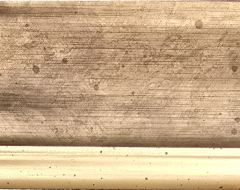
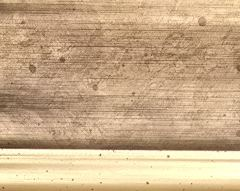
Updates

diff --git a/public/assets/front/js/frame-preview.js b/public/assets/front/js/frame-preview.js
@@ -69,9 +69,20 @@
 		var thickness = Math.round(Math.min(width, height) * THICKNESS_RATIO);
 		thickness = Math.max(MIN_THICKNESS, Math.min(MAX_THICKNESS, thickness));
 
-		root.style.setProperty('--pf-t', thickness + 'px');
+		// Setting these changes the margin, which resizes the element and would
+		// re-enter through the ResizeObserver -- only write on an actual change.
+		if (root._pfT !== thickness) {
+			root._pfT = thickness;
+			root.style.setProperty("--pf-t", thickness + "px");
+		}
+
 		// Side rails are rotated, so their length is the frame's outer height.
-		root.style.setProperty('--pf-h', (height + 2 * thickness) + 'px');
+		var outerHeight = height + 2 * thickness;
+
+		if (root._pfH !== outerHeight) {
+			root._pfH = outerHeight;
+			root.style.setProperty("--pf-h", outerHeight + "px");
+		}
 	}
 
 	function apply(root, swatchUrl) {

diff --git a/public/assets/front/css/frame-preview.css b/public/assets/front/css/frame-preview.css
@@ -109,3 +109,13 @@
 	transform-origin: 100% 0;
 	transform: rotate(-90deg) translateY(-100%);
 }
+
+/*
+ * The side rails are rotated, which maps the clip trapezoid's wide edge to the
+ * rail's inner side. Mirror it so the wide edge faces outward like the top and
+ * bottom, and the mitres line up corner to corner.
+ */
+.pframe-left,
+.pframe-right {
+	clip-path: polygon(var(--pf-t) 0, calc(100% - var(--pf-t)) 0, 100% 100%, 0 100%);
+}

diff --git a/app/Support/Frames.php b/app/Support/Frames.php
@@ -19,6 +19,7 @@ class Frames
 
     private static $files;
     private static $labels;
+    private static $codes;
 
     /**
      * Settings key holding the display name for a frame file.
@@ -34,6 +35,17 @@ class Frames
     public static function slug($file)
     {
         return preg_replace('/[^A-Za-z0-9]+/', '_', pathinfo($file, PATHINFO_FILENAME));
+    }
+
+    /**
+     * Supplier stock code for a frame file: "C22SVG (2).svg" and the older
+     * "C22 background removed.png" both yield "C22".
+     */
+    public static function code($file)
+    {
+        $stem = pathinfo((string) $file, PATHINFO_FILENAME);
+
+        return preg_match('/^([A-Za-z]+\d+)/', $stem, $matches) ? strtoupper($matches[1]) : null;
     }
 
     /**
@@ -63,6 +75,39 @@ class Frames
     }
 
     /**
+     * Map a stored map_frame value onto a frame file that still exists.
+     *
+     * Frame art has been re-supplied in different formats over time, so rows
+     * saved against an older filename are matched back by stock code.
+     */
+    public static function resolve($stored)
+    {
+        if (empty($stored) || $stored === 'none') {
+            return null;
+        }
+
+        $files = self::files();
+
+        if (in_array($stored, $files, true)) {
+            return $stored;
+        }
+
+        if (self::$codes === null) {
+            self::$codes = [];
+            foreach ($files as $file) {
+                $code = self::code($file);
+                if ($code !== null && !isset(self::$codes[$code])) {
+                    self::$codes[$code] = $file;
+                }
+            }
+        }
+
+        $code = self::code($stored);
+
+        return $code !== null && isset(self::$codes[$code]) ? self::$codes[$code] : null;
+    }
+
+    /**
      * Map of frame file => display name, in file order.
      */
     public static function labels()
@@ -87,15 +132,17 @@ class Frames
     }
 
     /**
-     * Display name for a single frame file.
+     * Display name for a single stored frame value.
      */
-    public static function label($file)
+    public static function label($stored)
     {
-        if (empty($file) || $file === 'none') {
+        if (empty($stored) || $stored === 'none') {
             return 'No Frame';
         }
 
-        return self::labels()[$file] ?? $file;
+        $file = self::resolve($stored);
+
+        return $file === null ? $stored : self::labels()[$file];
     }
 
     /**
@@ -112,22 +159,24 @@ class Frames
      * Full-quality swatch used to build the frame around a map preview.
      * Falls back to the original art when `frames:optimize` has not been run.
      */
-    public static function swatchUrl($file)
+    public static function swatchUrl($stored)
     {
-        return self::derivativeUrl($file, 'web');
+        return self::derivativeUrl($stored, 'web');
     }
 
     /**
      * Small swatch used for picker tiles and admin listings.
      */
-    public static function thumbUrl($file)
+    public static function thumbUrl($stored)
     {
-        return self::derivativeUrl($file, 'thumbs');
+        return self::derivativeUrl($stored, 'thumbs');
     }
 
-    private static function derivativeUrl($file, $variant)
+    private static function derivativeUrl($stored, $variant)
     {
-        if (empty($file) || $file === 'none' || !in_array($file, self::files(), true)) {
+        $file = self::resolve($stored);
+
+        if ($file === null) {
             return null;
         }
 

diff --git a/resources/views/front/map_detail.blade.php b/resources/views/front/map_detail.blade.php
@@ -268,7 +268,7 @@
         <!-- Map Preview -->
         <div class="map-preview-card">
             <div class="map-image-container">
-                @php $activeSwatch = \App\Support\Frames::swatchUrl($map->map_frame); @endphp
+                @php $activeFrame = \App\Support\Frames::resolve($map->map_frame); $activeSwatch = \App\Support\Frames::swatchUrl($map->map_frame); @endphp
                 <div class="pframe" id="mapCombinedPreview"
                     @if($activeSwatch) data-frame-swatch="{{$activeSwatch}}" @endif>
                     <img src="{{asset('storage/images/maps/' . $map->map_image)}}" id="mainMapImage" alt="Your Map">
@@ -296,7 +296,7 @@
                             <span>${{number_format($map->map_addon_cost, 2)}}</span>
                         </div>
                     @endif
-                    <div id="frameCostRow" style="{{$map->map_frame == 'none' ? 'display:none' : ''}}">
+                    <div id="frameCostRow" style="{{$activeFrame === null ? 'display:none' : ''}}">
                         <div class="detail-item">
                             <span>Frame Customization</span>
                             <span id="displayFrameCost">$0.00</span>
@@ -313,7 +313,7 @@
                     <h3 class="section-title" style="font-size: 1rem;"><i class="fas fa-border-all"></i> Selection of
                         Frame</h3>
                     <div class="frame-grid">
-                        <div class="frame-item {{($map->map_frame == 'none' || empty($map->map_frame)) ? 'active' : ''}}"
+                        <div class="frame-item {{$activeFrame === null ? 'active' : ''}}"
                             data-frame="none">
                             <div class="frame-thumb"
                                 style="display: flex; align-items: center; justify-content: center; background: #fafafa;">
@@ -323,7 +323,7 @@
                         </div>
 
                         @foreach($frames as $frame)
-                            <div class="frame-item {{$map->map_frame == $frame ? 'active' : ''}}" data-frame="{{$frame}}"
+                            <div class="frame-item {{$activeFrame == $frame ? 'active' : ''}}" data-frame="{{$frame}}"
                                 data-swatch="{{\App\Support\Frames::swatchUrl($frame)}}">
                                 <div class="frame-thumb"
                                     style="background-image: url('{{\App\Support\Frames::thumbUrl($frame)}}');">
@@ -374,7 +374,7 @@
         const preview = document.getElementById('mapCombinedPreview');
 
         // Reflect whatever is already saved on the map.
-        $('#frameCostRow').toggle("{{$map->map_frame}}" !== 'none' && "{{$map->map_frame}}" !== '');
+        $("#frameCostRow").toggle({{ $activeFrame === null ? "false" : "true" }});
 
         $('.frame-item').click(function () {
             const frameVal = $(this).data('frame');

diff --git a/app/Console/Commands/OptimizeFrames.php b/app/Console/Commands/OptimizeFrames.php
@@ -22,6 +22,9 @@ class OptimizeFrames extends Command
     const WEB_MAX = 1400;
     const THUMB_MAX = 240;
 
+    // Fraction trimmed from each edge of the source photograph.
+    const EDGE_CROP = 0.02;
+
     public function handle()
     {
         if (!function_exists('imagecreatefromstring')) {
@@ -115,8 +118,14 @@ class OptimizeFrames extends Command
 
     private function resizeTo($source, $destination, $max, $quality)
     {
-        $width = imagesx($source);
-        $height = imagesy($source);
+        // The swatches are photographs, so a sliver of the surface behind the
+        // moulding survives at each edge. Left in, it draws a pale seam along
+        // the outside of every rail and mitre, so trim it before scaling.
+        $inset = self::EDGE_CROP;
+        $srcX = (int) round(imagesx($source) * $inset);
+        $srcY = (int) round(imagesy($source) * $inset);
+        $width = imagesx($source) - 2 * $srcX;
+        $height = imagesy($source) - 2 * $srcY;
         $scale = min(1, $max / max($width, $height));
 
         $newWidth = max(1, (int) round($width * $scale));
@@ -124,7 +133,7 @@ class OptimizeFrames extends Command
 
         $canvas = imagecreatetruecolor($newWidth, $newHeight);
         imagefilledrectangle($canvas, 0, 0, $newWidth, $newHeight, imagecolorallocate($canvas, 255, 255, 255));
-        imagecopyresampled($canvas, $source, 0, 0, 0, 0, $newWidth, $newHeight, $width, $height);
+        imagecopyresampled($canvas, $source, 0, 0, $srcX, $srcY, $newWidth, $newHeight, $width, $height);
         imagejpeg($canvas, $destination, $quality);
         imagedestroy($canvas);
     }

diff --git a/resources/views/admin/orders.blade.php b/resources/views/admin/orders.blade.php
@@ -124,7 +124,7 @@
                                     <td>
                                         @if($order->map_frame && $order->map_frame !== 'none')
                                             <span
-                                                class="badge bg-secondary">{{$frameLabels[$order->map_frame] ?? $order->map_frame}}</span>
+                                                class="badge bg-secondary">{{\App\Support\Frames::label($order->map_frame)}}</span>
                                         @else
                                             <small style="color: #ccc;">None</small>
                                         @endif
